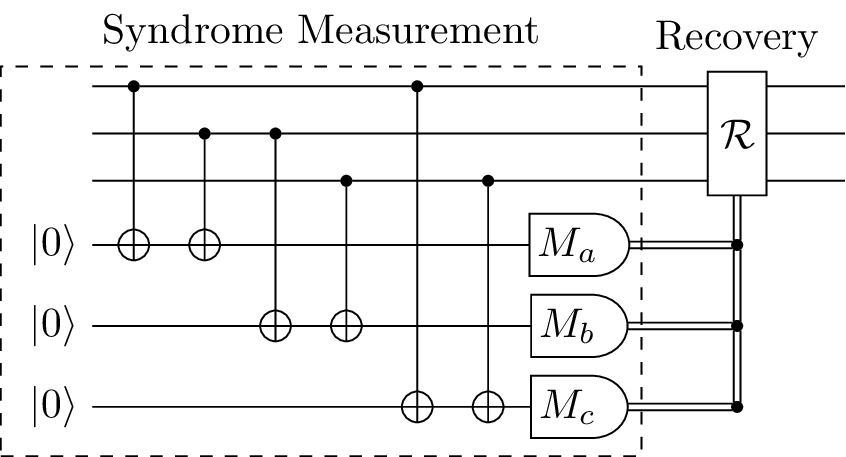
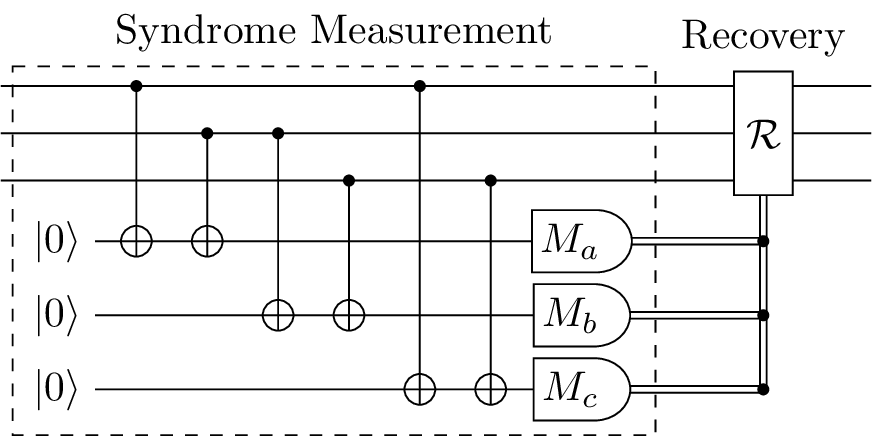
Update markdown

diff --git a/markdown/ex-04.tex b/markdown/ex-04.tex
@@ -1,29 +1,35 @@
 \documentclass[tikz, convert={convertexe=magick}, png]{standalone}
 
-\usepackage{yquant, braket}
+\usepackage[compat=0.4]{yquant}
+\usepackage{braket}
 \yquantset{register/default name=$\ket{\reg_{\idx}}$}
-\usetikzlibrary{fit, quotes}
+\usetikzlibrary{quotes}
 
 \begin{document}
    \begin{tikzpicture}
       \begin{yquant}
          qubit {} msg[3];
-         [name=inits]
-         qubit {$\ket0$} syndrome[3];
+         nobit syndrome[3];
          
-         [name=scnot0]
-         cnot syndrome[0] | msg[0];
-         cnot syndrome[0] | msg[1];
-         cnot syndrome[1] | msg[1];
-         cnot syndrome[1] | msg[2];
-         cnot syndrome[2] | msg[0];
-         cnot syndrome[2] | msg[2];
-         [name=smeas]
-         dmeter {$M_{\symbol{\numexpr`a+\idx}}$} syndrome;
+         [this subcircuit box style={dashed, "Syndrome Measurement"}]
+         subcircuit {
+            qubit {} msg[3];
+            [out]
+            qubit {$\ket0$} syndrome[3];
+            
+            cnot syndrome[0] | msg[0];
+            cnot syndrome[0] | msg[1];
+            cnot syndrome[1] | msg[1];
+            cnot syndrome[1] | msg[2];
+            cnot syndrome[2] | msg[0];
+            cnot syndrome[2] | msg[2];
+            
+            dmeter {$M_{\symbol{\numexpr`a+\idx}}$} syndrome;
+         } (msg[-2], syndrome[-2]);
+         
          ["Recovery"]
          box {$\mathcal R$} (msg) | syndrome;
          discard syndrome;
       \end{yquant}
-      \node[draw, dashed, fit=(inits-2) (scnot0-p0) (smeas-2), "Syndrome Measurement"] {};
    \end{tikzpicture}
 \end{document}

diff --git a/markdown/ex-05.tex b/markdown/ex-05.tex
@@ -1,18 +1,19 @@
 \documentclass[tikz, convert={convertexe=magick}, png]{standalone}
 
-\usepackage{yquant, braket}
+\usepackage[compat=0.4]{yquant}
+\usepackage{braket}
 \yquantset{register/default name=$\ket{\reg_{\idx}}$}
 
 \begin{document}
    \begin{tikzpicture}
       \begin{yquant*}
-         zz (a[0], a[2]);
+         zz (a[0, 2]);
          cnot a[1] ~ a[0];
-         zz (a[2], a[3]);
+         zz (a[2, 3]);
          h a[3] | a[0] ~ a[1];
-         measure a[2], a[3];
-         box {$U$} (a[0], a[1]) | a[3] ~ a[2];
-         discard a[2], a[3];
+         measure a[2, 3];
+         box {$U$} (a[0, 1]) | a[3] ~ a[2];
+         discard a[2, 3];
       \end{yquant*}
    \end{tikzpicture}
 \end{document}

diff --git a/markdown/ex-03.tex b/markdown/ex-03.tex
@@ -1,6 +1,7 @@
 \documentclass[tikz, convert={convertexe=magick}, png]{standalone}
 
-\usepackage{yquant, braket}
+\usepackage[compat=0.4]{yquant}
+\usepackage{braket}
 \yquantset{register/default name=$\ket{\reg_{\idx}}$}
 
 \begin{document}
@@ -19,7 +20,7 @@
          measure s;
          cnot c[0] | s[0];
          cnot c[1] | s[1];
-         discard s;
+         discard s; % to suppress wires extending until re-initialization
          
          init {$\ket0$} s;
          h s[0];

diff --git a/markdown/ex-01.tex b/markdown/ex-01.tex
@@ -1,6 +1,7 @@
 \documentclass[tikz, convert={convertexe=magick}, png]{standalone}
 
-\usepackage{yquant, braket}
+\usepackage[compat=0.4]{yquant}
+\usepackage{braket}
 \yquantset{register/default name=$\ket{\reg_{\idx}}$}
 
 \begin{document}
@@ -12,7 +13,7 @@
          cnot q[2] | q[1];
          cnot q[1] | q[0];
          h q[0];
-         measure q[0], q[1];
+         measure q[0-1];
          
          z q[2] | q[1];
          x q[2] | q[0];

diff --git a/markdown/ex-02.tex b/markdown/ex-02.tex
@@ -1,6 +1,7 @@
 \documentclass[tikz, convert={convertexe=magick}, png]{standalone}
 
-\usepackage{yquant, braket}
+\usepackage[compat=0.4]{yquant}
+\usepackage{braket}
 \yquantset{register/default name=$\ket{\reg_{\idx}}$}
 
 \begin{document}

diff --git a/README.md b/README.md
@@ -97,27 +97,32 @@ Many more examples and explanations can be found in the [PDF version](doc/latex/
 ### Error correction
 ![ex-04.png](markdown/ex-04.png)
 ```LaTeX
-% \usetikzlibrary{fit, quotes}
+% \usetikzlibrary{quotes}
 \begin{tikzpicture}
   \begin{yquant}
     qubit {} msg[3];
-    [name=inits]
-    qubit {$\ket0$} syndrome[3];
-
-    [name=scnot0]
-    cnot syndrome[0] | msg[0];
-    cnot syndrome[0] | msg[1];
-    cnot syndrome[1] | msg[1];
-    cnot syndrome[1] | msg[2];
-    cnot syndrome[2] | msg[0];
-    cnot syndrome[2] | msg[2];
-    [name=smeas]
-    dmeter {$M_{\symbol{\numexpr`a+\idx}}$} syndrome;
+    nobit syndrome[3];
+    
+    [this subcircuit box style={dashed, "Syndrome Measurement"}]
+    subcircuit {
+       qubit {} msg[3];
+       [out]
+       qubit {$\ket0$} syndrome[3];
+       
+       cnot syndrome[0] | msg[0];
+       cnot syndrome[0] | msg[1];
+       cnot syndrome[1] | msg[1];
+       cnot syndrome[1] | msg[2];
+       cnot syndrome[2] | msg[0];
+       cnot syndrome[2] | msg[2];
+       
+       dmeter {$M_{\symbol{\numexpr`a+\idx}}$} syndrome;
+    } (msg[-2], syndrome[-2]);
+  
     ["Recovery"]
     box {$\mathcal R$} (msg) | syndrome;
     discard syndrome;
   \end{yquant}
-  \node[draw, dashed, fit=(inits-2) (scnot0-p0) (smeas-2), "Syndrome Measurement"] {};
 \end{tikzpicture}
 ```
 
